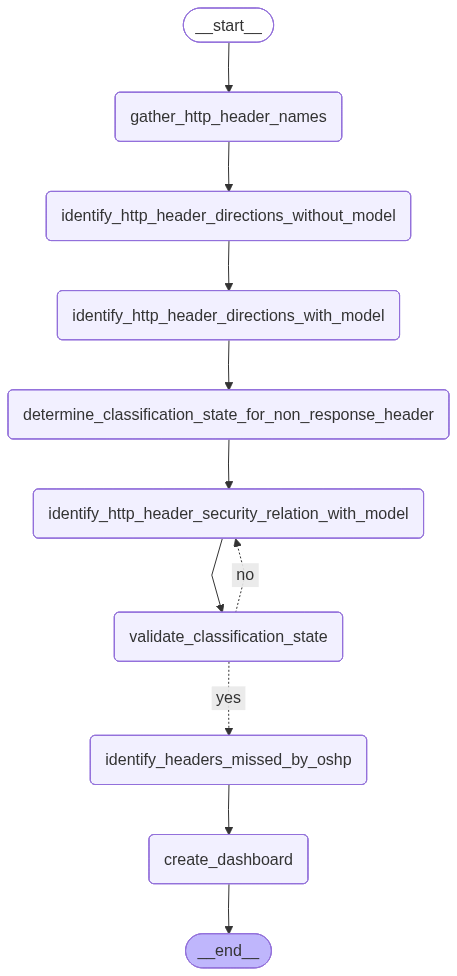
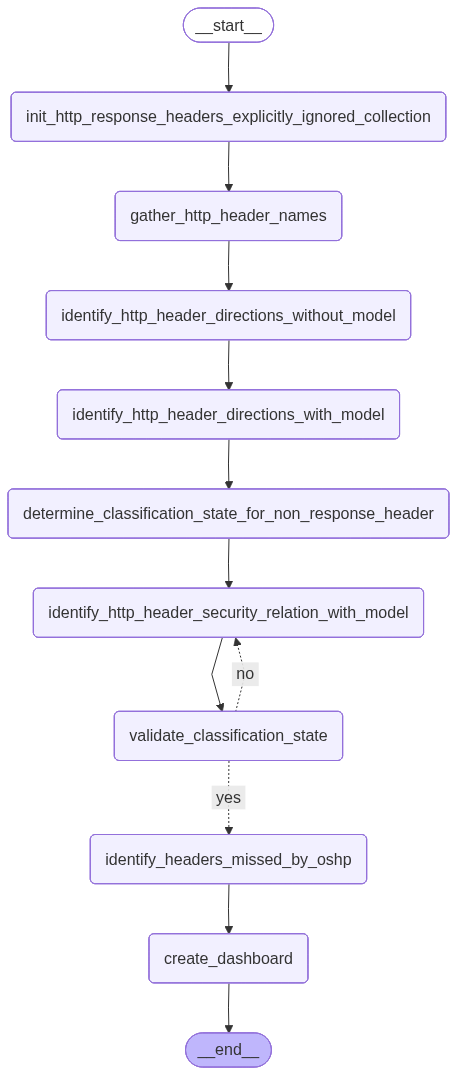
wip

diff --git a/main.py b/main.py
@@ -1,5 +1,6 @@
 import json
 import os
+import re
 import time
 from dataclasses import asdict, dataclass, is_dataclass
 from datetime import datetime as date_ref
@@ -17,7 +18,7 @@ from markdownify import markdownify as md
 from pydantic import BaseModel, Field
 
 DEBUG = True
-HTTP_RESPONSE_HEADERS_EXPLICLITY_IGNORED = ["PUBLIC-KEY-PINS", "PUBLIC-KEY-PINS-REPORT-ONLY", "EXPECT-CT", "ACCESS-CONTROL-ALLOW-CREDENTIALS", "ACCESS-CONTROL-ALLOW-HEADERS", "ACCESS-CONTROL-ALLOW-METHODS", "ACCESS-CONTROL-EXPOSE-HEADERS", "ACCESS-CONTROL-ALLOW-ORIGIN", "SET-COOKIE"]
+README_FILENAME = "README.md"
 STATE_FILENAME = "state.json"
 DIAGRAM_FLOW_FILENAME = "diagram.png"
 DASHBOARD_FILENAME = "dashboard.md"
@@ -70,6 +71,7 @@ class PipelineState(TypedDict):
     last_update: str
     oshp_headers_missed: list[str]
     loop_interation_count: int
+    http_response_headers_explicitly_ignored: list[str]
 
 
 class HeaderDirection(BaseModel):
@@ -165,6 +167,22 @@ def handle_structured_model_call(model_name: str, structured_model, messages: li
     return result
 
 
+def init_http_response_headers_explicitly_ignored_collection(state: PipelineState) -> PipelineState:
+    http_response_headers_expliclity_ignored_collection = []
+    # Load the list of headers to ignore from the README file from a dedicated section
+    headers_table_extraction_regex = r"<!--IGNORED_HEADERS_SECTION_START-->(.*)<!--IGNORED_HEADERS_SECTION_END-->"
+    with open(README_FILENAME, mode="r", encoding=DEFAULT_ENCODING) as f:
+        content = f.read()
+    table_lines = re.findall(headers_table_extraction_regex, content, re.IGNORECASE | re.DOTALL)
+    for line in table_lines[0].split("\n"):
+        if "`" not in line:
+            continue
+        header_name = line.split("|")[1].strip("` ").upper()
+        http_response_headers_expliclity_ignored_collection.append(header_name)
+    state["http_response_headers_explicitly_ignored"] = http_response_headers_expliclity_ignored_collection
+    return state
+
+
 def gather_http_header_names(state: PipelineState) -> PipelineState:
     headers_collections = state["headers_info_collection"]
     # Step 1: Use MDN data source
@@ -191,7 +209,7 @@ def gather_http_header_names(state: PipelineState) -> PipelineState:
             header_info.spec_location = spec_url
         else:
             header_info = HeaderInfo(header_name_upper, spec_url, None, None, "UNKNOWN", False, False)
-        if header_name_upper in HTTP_RESPONSE_HEADERS_EXPLICLITY_IGNORED:
+        if header_name_upper in state["http_response_headers_explicitly_ignored"]:
             header_info.header_direction = "RESPONSE"
             header_info.is_already_classified = True
             header_info.is_security = True
@@ -523,7 +541,7 @@ def identify_headers_missed_by_oshp(state: PipelineState) -> PipelineState:
     oshp_headers = [hdr["name"].upper() for hdr in response.json()["headers"]]
     # Find security header not documented by OSHP
     for header_name, header_info in headers_collections.items():
-        if header_info.header_direction == "RESPONSE" and header_info.is_security and header_name not in oshp_headers and header_name not in HTTP_RESPONSE_HEADERS_EXPLICLITY_IGNORED:
+        if header_info.header_direction == "RESPONSE" and header_info.is_security and header_name not in oshp_headers and header_name not in state["http_response_headers_explicitly_ignored"]:
             oshp_headers_missed.append(header_name)
     state["last_update"] = date_ref.now().strftime("%Y-%m-%d %H:%M:%S")
     state["oshp_headers_missed"] = oshp_headers_missed
@@ -562,7 +580,7 @@ def create_dashboard(state: PipelineState) -> PipelineState:
 </tr>
     """
     for header_name, header_info in headers_collections.items():
-        if header_info.is_security and header_name in state["oshp_headers_missed"] and header_name not in HTTP_RESPONSE_HEADERS_EXPLICLITY_IGNORED:
+        if header_info.is_security and header_name in state["oshp_headers_missed"] and header_name not in state["http_response_headers_explicitly_ignored"]:
             header_table += "<tr>"
             header_table += f"<td>{header_info.name}</td>"
             header_table += f"<td>{header_info.header_direction}</td>"
@@ -588,6 +606,7 @@ def create_dashboard(state: PipelineState) -> PipelineState:
 def assemble_agent() -> StateGraph:
     agent_builder = StateGraph(PipelineState)
     # Define nodes of the graph
+    agent_builder.add_node("init_http_response_headers_explicitly_ignored_collection", init_http_response_headers_explicitly_ignored_collection)
     agent_builder.add_node("gather_http_header_names", gather_http_header_names)
     agent_builder.add_node("identify_http_header_directions_without_model", identify_http_header_directions_without_model)
     agent_builder.add_node("identify_http_header_directions_with_model", identify_http_header_directions_with_model)
@@ -597,7 +616,8 @@ def assemble_agent() -> StateGraph:
     agent_builder.add_node("identify_headers_missed_by_oshp", identify_headers_missed_by_oshp)
     agent_builder.add_node("create_dashboard", create_dashboard)
     # Define the graph flow
-    agent_builder.add_edge(START, "gather_http_header_names")
+    agent_builder.add_edge(START, "init_http_response_headers_explicitly_ignored_collection")
+    agent_builder.add_edge("init_http_response_headers_explicitly_ignored_collection", "gather_http_header_names")
     agent_builder.add_edge("gather_http_header_names", "identify_http_header_directions_without_model")
     agent_builder.add_edge("identify_http_header_directions_without_model", "identify_http_header_directions_with_model")
     agent_builder.add_edge("identify_http_header_directions_with_model", "determine_classification_state_for_non_response_header")
@@ -614,7 +634,7 @@ if __name__ == "__main__":
     if os.path.exists(STATE_FILENAME):
         with open(STATE_FILENAME, mode="r", encoding=DEFAULT_ENCODING) as f:
             data = json.load(f)
-            state = PipelineState(headers_info_collection={k: HeaderInfo(**v) for k, v in data["headers_info_collection"].items()}, last_update=data["last_update"], oshp_headers_missed=data["oshp_headers_missed"], loop_interation_count=0)
+            state = PipelineState(headers_info_collection={k: HeaderInfo(**v) for k, v in data["headers_info_collection"].items()}, last_update=data["last_update"], oshp_headers_missed=data["oshp_headers_missed"], loop_interation_count=0, http_response_headers_explicitly_ignored=[])
     agent = assemble_agent().compile()
     node_names = set(agent.nodes.keys())
     state = agent.invoke(state, config={"callbacks": [NodeLoggerCallback(node_names=node_names)]})

diff --git a/README.md b/README.md
@@ -26,13 +26,27 @@ flowchart LR
 
 # Ignored headers and reason
 
-| Header name                   | Reason                                                                                                                           |
-| ----------------------------- | -------------------------------------------------------------------------------------------------------------------------------- |
-| `PUBLIC-KEY-PINS`             | Deprecated header.                                                                                                               |
-| `PUBLIC-KEY-PINS-REPORT-ONLY` | Deprecated header.                                                                                                               |
-| `EXPECT-CT`                   | Deprecated header.                                                                                                               |
-| `ACCESS-CONTROL-*`            | Header needed to be present to open exposure.                                                                                    |
-| `SET-COOKIE`                  | Set a cookie properties including its security aspect but its primary purpose is not enabling a security feature of the browser. |
+<!--IGNORED_HEADERS_SECTION_START-->
+
+| Header name                        | Reason                                                                                                                                                                                                                        |
+| ---------------------------------- | ----------------------------------------------------------------------------------------------------------------------------------------------------------------------------------------------------------------------------- |
+| `PUBLIC-KEY-PINS`                  | Deprecated header.                                                                                                                                                                                                            |
+| `PUBLIC-KEY-PINS-REPORT-ONLY`      | Deprecated header.                                                                                                                                                                                                            |
+| `EXPECT-CT`                        | Deprecated header.                                                                                                                                                                                                            |
+| `ACCESS-CONTROL-ALLOW-CREDENTIALS` | Header needed to be present to open exposure of a resource.                                                                                                                                                                   |
+| `ACCESS-CONTROL-ALLOW-HEADERS`     | Header needed to be present to open exposure of a resource.                                                                                                                                                                   |
+| `ACCESS-CONTROL-ALLOW-METHODS`     | Header needed to be present to open exposure of a resource.                                                                                                                                                                   |
+| `ACCESS-CONTROL-ALLOW-ORIGIN`      | Header needed to be present to open exposure of a resource.                                                                                                                                                                   |
+| `ACCESS-CONTROL-EXPOSE-HEADERS`    | Header needed to be present to open exposure of a resource.                                                                                                                                                                   |
+| `ACCESS-CONTROL-MAX-AGE`           | Header needed to be present to open exposure of a resource.                                                                                                                                                                   |
+| `ACCESS-CONTROL-REQUEST-HEADERS`   | Header needed to be present to open exposure of a resource.                                                                                                                                                                   |
+| `ACCESS-CONTROL-REQUEST-METHOD`    | Header needed to be present to open exposure of a resource.                                                                                                                                                                   |
+| `SET-COOKIE`                       | Set a cookie properties including its security aspect but its primary purpose is not enabling a security feature of the browser.                                                                                              |
+| `ACCESS-CONTROL`                   | Replaced by CORS.                                                                                                                                                                                                             |
+| `ACTIVATE-STORAGE-ACCESS`          | Enable access to unpartitioned cookies that are blocked by default in cross-site context. Not specifying it means the browser's default blocking remains in effect - the header is a recovery mechanism, not a security gate. |
+| `AUTHENTICATION-INFO`              | Response header used to carry authentication-related data back to the client after a successful request.                                                                                                                      |
+
+<!--IGNORED_HEADERS_SECTION_END-->
 
 # Agent pattern recommendation by Claude
 

diff --git a/dashboard.md b/dashboard.md
@@ -1,11 +1,8 @@
 
-> 🕑 Last update 2026-07-16 12:08:46.
+> 🕑 Last update 2026-07-16 15:55:06.
 
 | Header name | Header direction | Fully classified | Classifier explanation | Validator explanation | Links |
 | --- | --- | --- | --- | --- | --- |
-| ACCESS-CONTROL | RESPONSE | True | Enforces cross-origin access control for resources |  | [RFC](https://www.w3.org/TR/2007/WD-access-control-20071126/#access-control0) |
-| ACTIVATE-STORAGE-ACCESS | RESPONSE | True | Explicitly part of Security Considerations (§8) for CSRF protection and opt-in security boundary |  | [RFC](https://privacycg.github.io/storage-access-headers) - [SPEC](https://privacycg.github.io/storage-access-headers/#activate-storage-access-header) |
-| AUTHENTICATION-INFO | RESPONSE | True | AUTHENTICATION-INFO is defined in RFC 7615 as security-related for HTTP authentication. |  | [RFC](https://www.rfc-editor.org/rfc/rfc9110.txt) |
 | CONTENT-DIGEST | RESPONSE | True | Mitigates data corruption via integrity digests |  | [RFC](https://www.rfc-editor.org/rfc/rfc9530.txt) |
 | CONTENT-SECURITY-POLICY-REPORT-ONLY | RESPONSE | True | Monitors violations, indirectly informing security posture |  | [RFC](https://www.w3.org/TR/CSP/#cspro-header) - [SPEC](https://w3c.github.io/webappsec-csp/#cspro-header) |
 | CROSS-ORIGIN-EMBEDDER-POLICY-REPORT-ONLY | RESPONSE | True | Enforces cross-origin embedding policies, directly impacting security posture. |  | [RFC](https://html.spec.whatwg.org/multipage/origin.html#cross-origin-embedder-policy-report-only) |